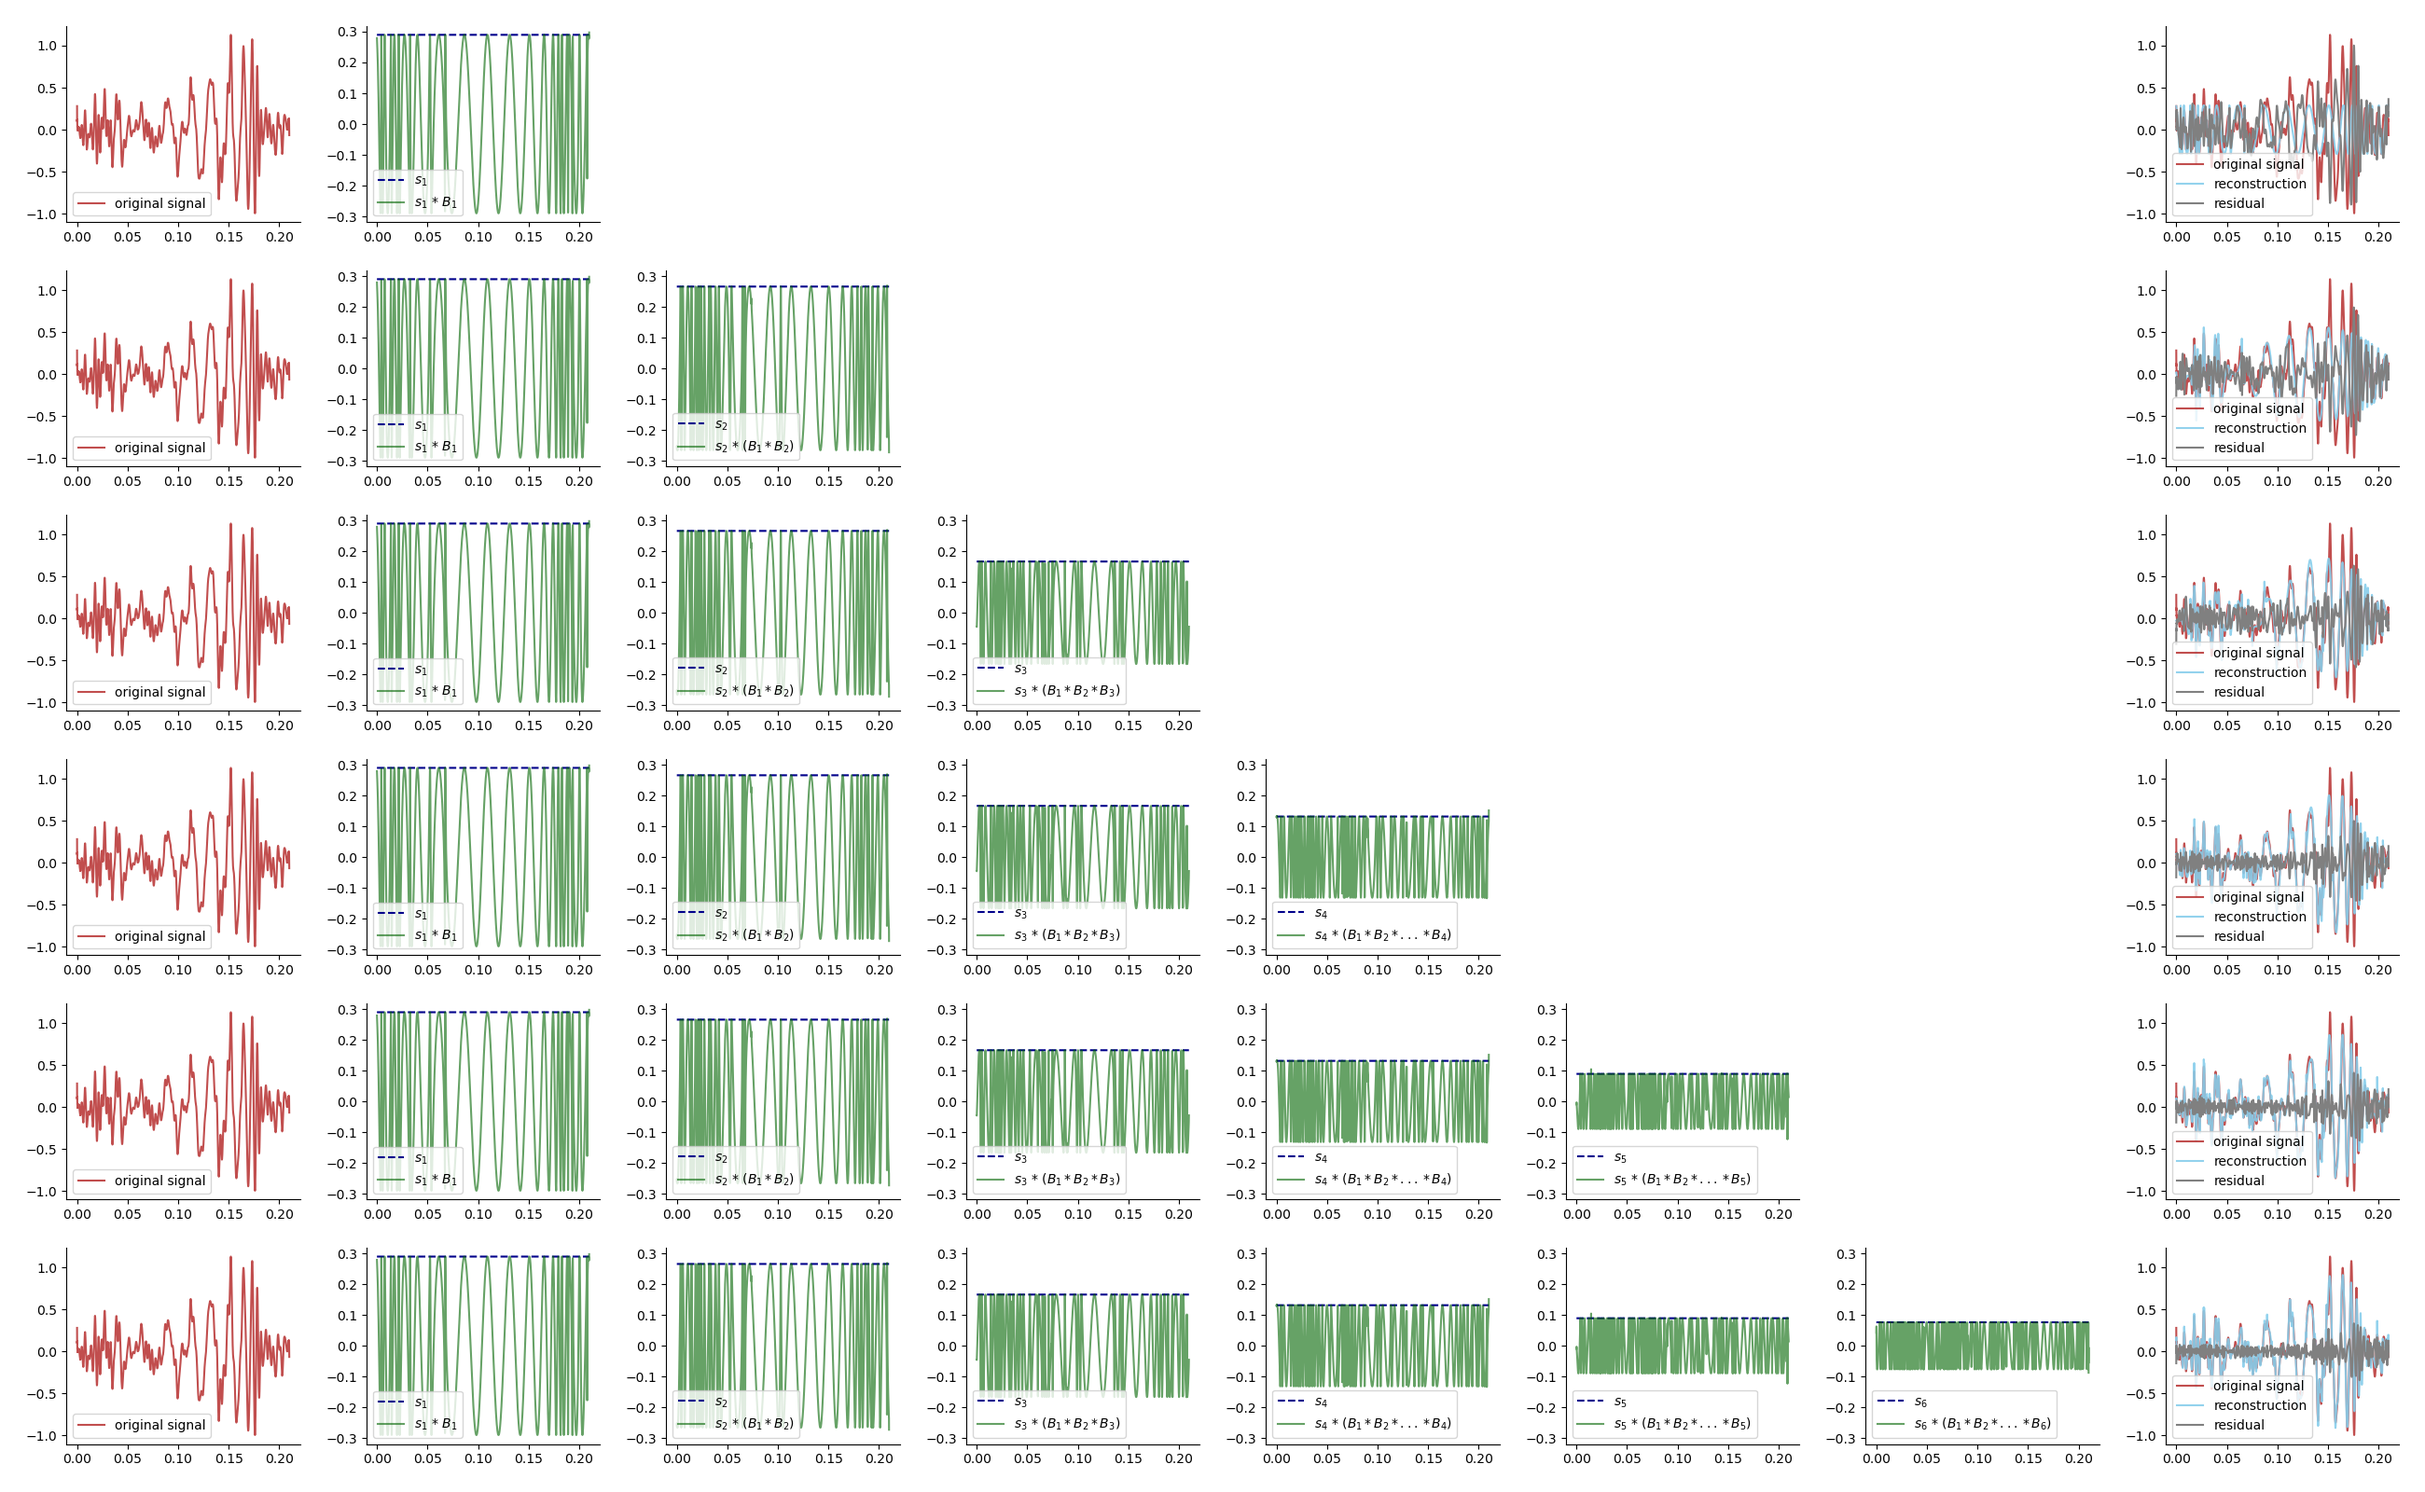
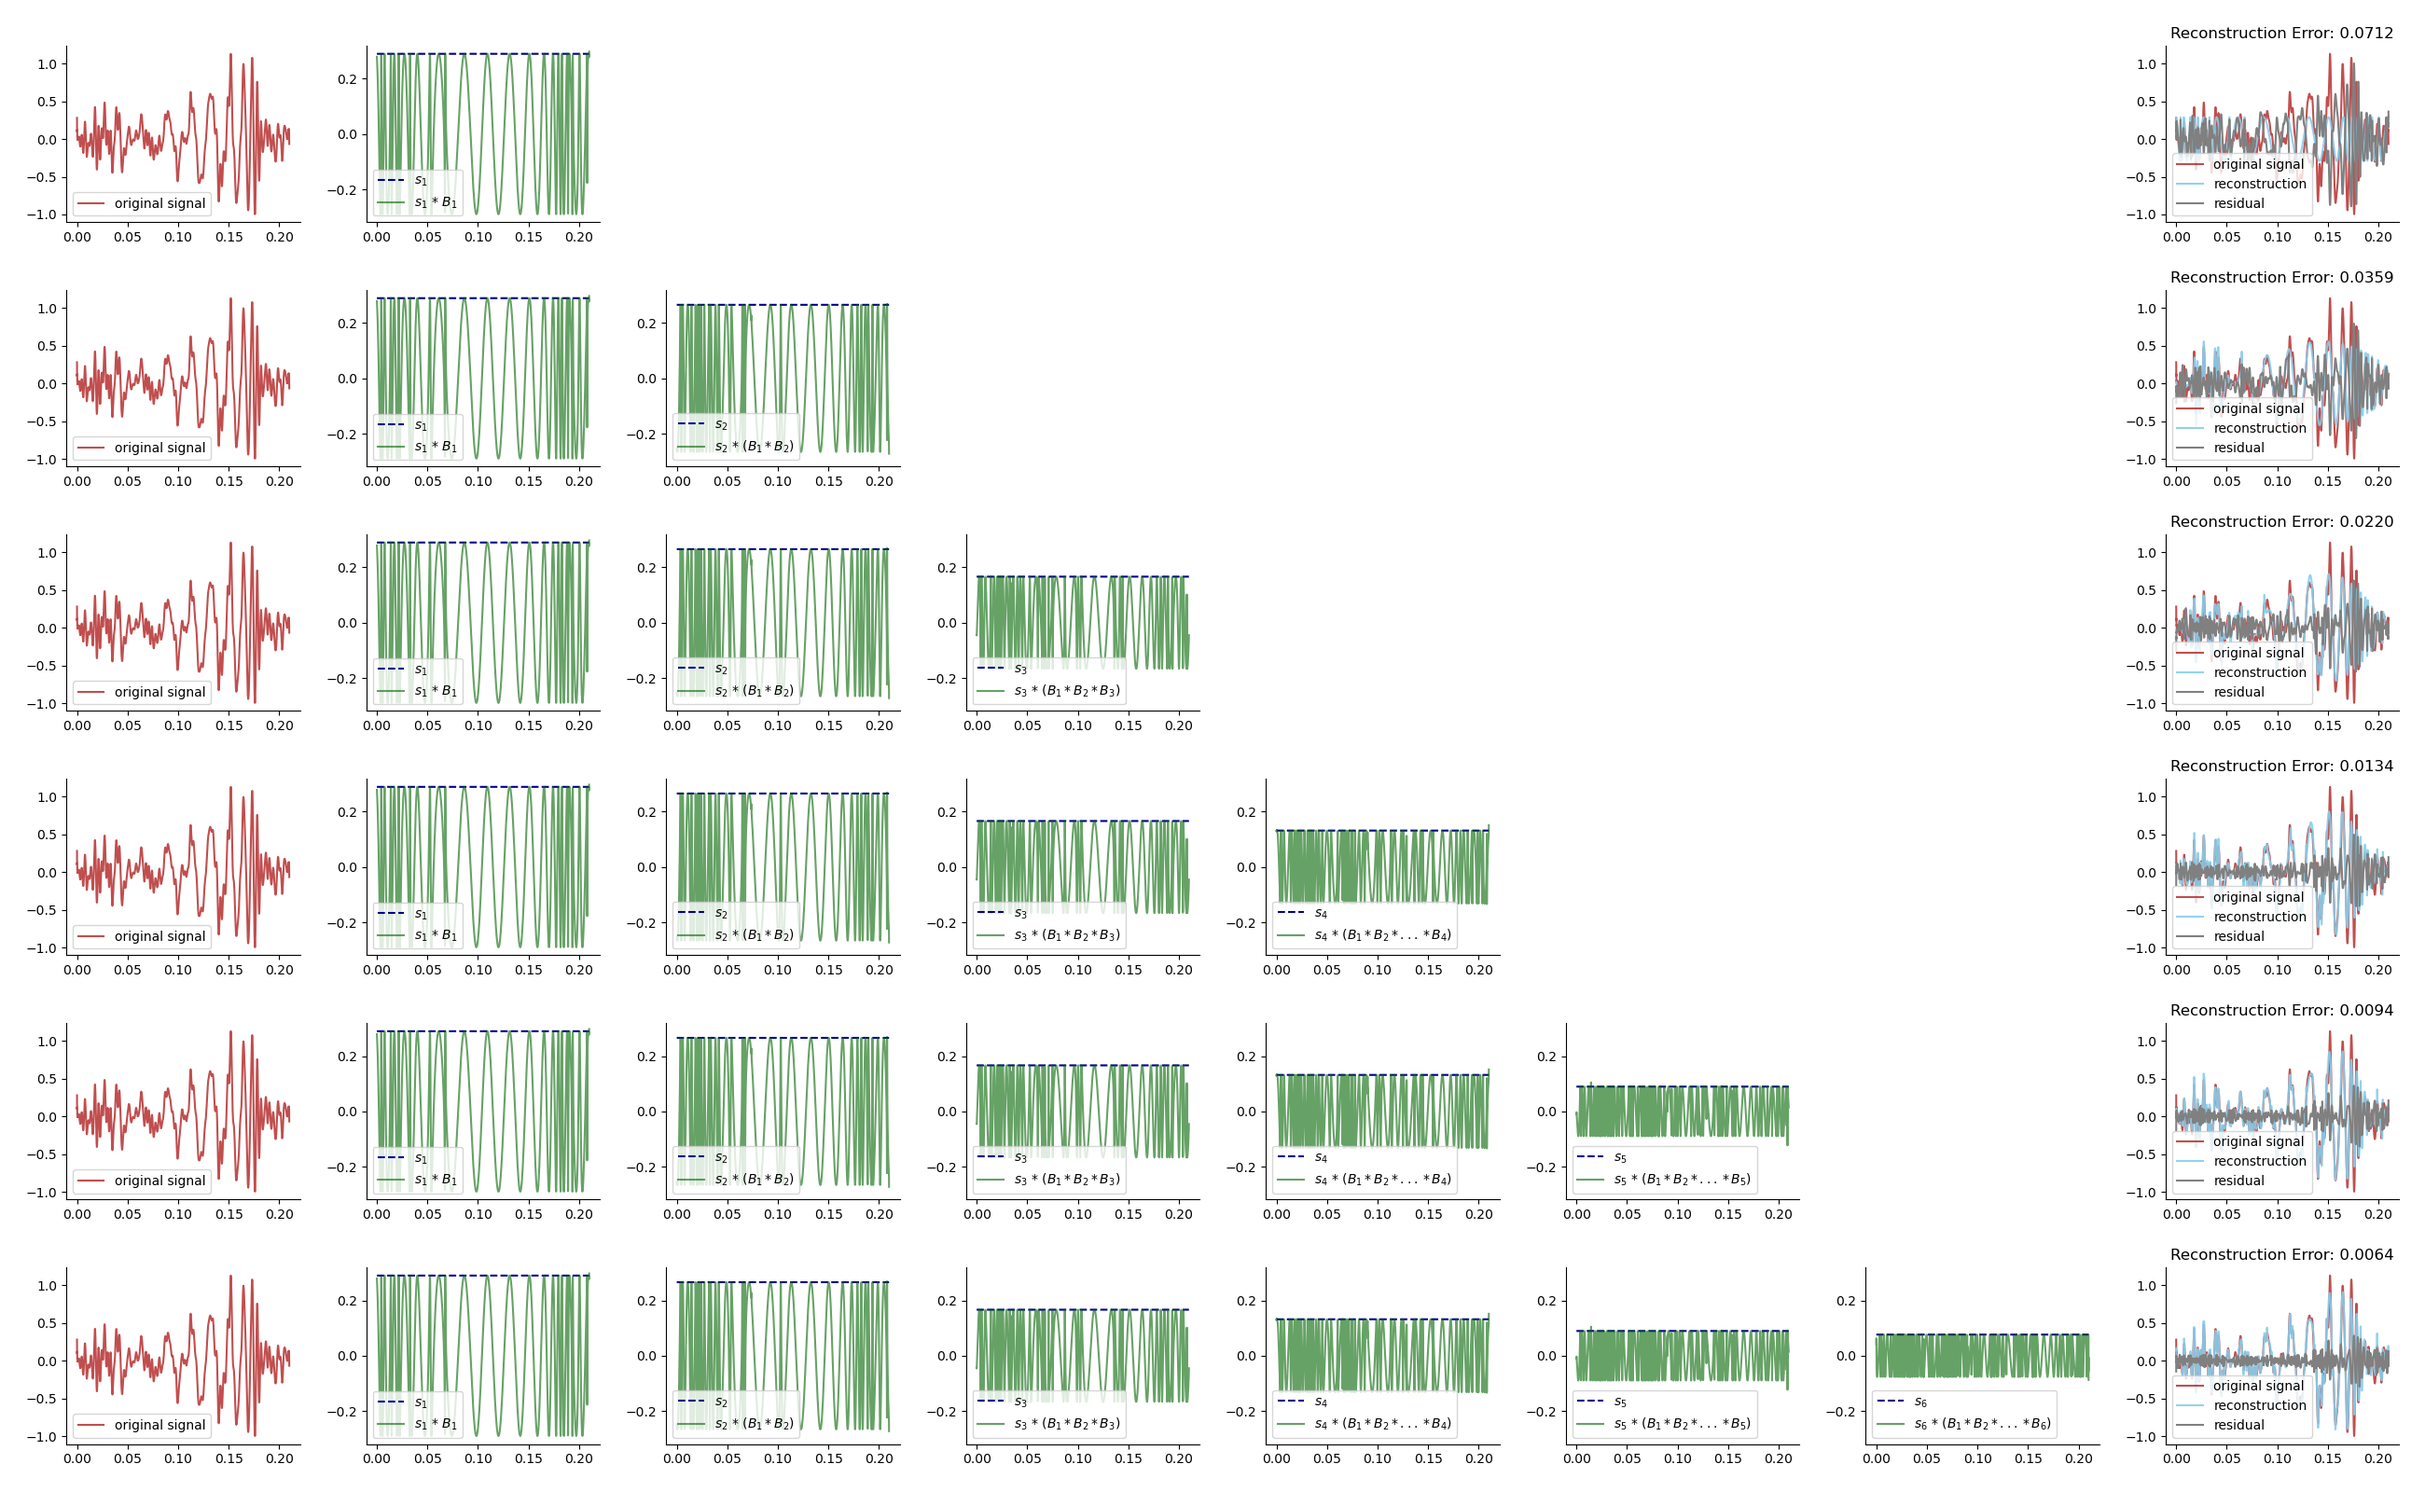
sanity check on fitting Blaschke params. Good

diff --git a/src/analytical/fitting_parameter.py b/src/analytical/fitting_parameter.py
@@ -1,0 +1,263 @@
+import torch
+import numpy as np
+import pandas as pd
+import matplotlib.pyplot as plt
+from einops import rearrange
+from tqdm import tqdm
+
+import os
+import sys
+import_dir = '/'.join(os.path.realpath(__file__).split('/')[:-1])
+sys.path.insert(0, import_dir)
+from analytical_decomposition import display_blaschke_product, complexify_signal
+
+
+def reshape_and_complexify(signal: np.ndarray) -> np.ndarray:
+    original_shape = signal.shape
+    if len(original_shape) == 1:
+        signal = rearrange(signal, '(c l) -> c l', c=1)
+    elif len(original_shape) == 2:
+        pass
+    elif len(original_shape) == 3:
+        signal = rearrange(signal, 'b c l -> (b c) l')
+    else:
+        raise ValueError(f'Currently only supporting 1D/2D/3D signals, but got shape {original_shape}.')
+
+    signal_complex = complexify_signal(signal)
+    return signal_complex
+
+
+class BlaschkeParams(torch.nn.Module):
+    '''
+    This is a torch module that stores all Blaschke parameters.
+    All Blaschke parameters are treated as learnable scalars.
+    '''
+    def __init__(self,
+                 num_roots: int = 1,
+                 seed: int = 1):
+        super().__init__()
+        torch.manual_seed(seed)
+
+        self.num_roots = num_roots
+
+        self.alphas = torch.nn.Parameter(torch.empty(self.num_roots))
+        self.log_betas = torch.nn.Parameter(torch.empty(self.num_roots))
+        self.logit_gammas = torch.nn.Parameter(torch.empty(self.num_roots))
+        self.scale_real = torch.nn.Parameter(torch.empty(1))
+        self.scale_imag = torch.nn.Parameter(torch.empty(1))
+
+        torch.nn.init.normal_(self.alphas, mean=0.0, std=1e-2)
+        torch.nn.init.normal_(self.log_betas, mean=0.0, std=1e-2)
+        torch.nn.init.normal_(self.logit_gammas, mean=0.0, std=1e-2)
+        torch.nn.init.normal_(self.scale_real, mean=0.0, std=1e-2)
+        torch.nn.init.normal_(self.scale_imag, mean=0.0, std=1e-2)
+
+    @property
+    def betas(self):
+        '''
+        betas have to be positive.
+        '''
+        return torch.exp(self.log_betas)
+
+    @property
+    def gammas(self):
+        '''
+        gammas have to be between 0 and 1.
+        '''
+        return torch.sigmoid(self.logit_gammas)
+
+    @property
+    def scale(self):
+        return self.scale_real + 1j * self.scale_imag
+
+    def activation(self, signal: torch.Tensor) -> torch.Tensor:
+        '''
+        Custom activation function used in the BlaschkeLayer1d.
+        '''
+        output = torch.arctan(signal) + torch.pi / 2
+        return output
+
+    def compute_blaschke_factor(self,
+                                signal_complex: torch.Tensor) -> torch.Tensor:
+
+        # NOTE: Assuming B = 1, C = 1.
+
+        signal_complex = signal_complex.unsqueeze(2)                           # [B, C, 1, L]
+        t = rearrange(torch.linspace(0, 1, signal_complex.shape[-1]),
+                      'l -> 1 1 1 l').to(signal_complex.device)                # [1, 1, 1, L]
+        alphas = rearrange(self.alphas, 'r -> 1 1 r 1')                        # [B, C, R, 1]
+        betas = rearrange(self.betas, 'r -> 1 1 r 1')                          # [B, C, R, 1]
+        gammas = rearrange(self.gammas, 'r -> 1 1 r 1')                        # [B, C, R, 1]
+
+        activated = self.activation((t - alphas) / betas)                      # [B, C, R, L]
+        phase = (gammas * activated).sum(dim=2)                                # sum over roots (R) → [B, C, L]
+
+        blaschke_factor = torch.exp(1j * phase)
+
+        return blaschke_factor
+
+    def forward(self,
+                signal_complex: torch.Tensor) -> torch.Tensor:
+        # [B, C, L]
+        assert len(signal_complex.shape) == 3
+
+        # Compute the Blaschke product $B(x)$. [B, C, L]
+        blaschke_factor = self.compute_blaschke_factor(signal_complex)
+        return blaschke_factor
+
+
+def plot_signal_approx(signal_complex: np.ndarray, scale: np.ndarray, blaschke_product: np.ndarray, blaschke_order: int = 6) -> None:
+    fig, ax = plt.subplots(blaschke_order, blaschke_order + 2, figsize = (26, 16))
+    if blaschke_order == 1:
+        ax = ax[np.newaxis, :]
+
+    time_arr = np.arange(signal_complex.shape[-1])
+    signal_complex = signal_complex.squeeze(0)
+    blaschke_product = blaschke_product.squeeze(1)
+
+    for total_order in range(blaschke_order):
+        ax[total_order, 0].plot(time_arr, signal_complex.real, label = 'original signal', color='firebrick', alpha=0.8)
+        ax[total_order, 0].legend(loc='lower left')
+        ax[total_order, 0].spines['top'].set_visible(False)
+        ax[total_order, 0].spines['right'].set_visible(False)
+
+    for total_order in range(1, blaschke_order + 1):
+        for curr_order in range(1, total_order + 1):
+            ax[total_order - 1, curr_order].hlines(scale[curr_order-1].real, xmin=time_arr.min(), xmax=time_arr.max(), label = f'$s_{curr_order}$', color='darkblue', linestyle='--')
+            ax[total_order - 1, curr_order].plot(time_arr, (blaschke_product[curr_order-1] * scale[curr_order-1]).real, label = f'$s_{curr_order}$ * ${display_blaschke_product(curr_order)}$', color='darkgreen', alpha=0.6)
+            ax[total_order - 1, curr_order].legend(loc='lower left')
+            ax[total_order - 1, curr_order].spines['top'].set_visible(False)
+            ax[total_order - 1, curr_order].spines['right'].set_visible(False)
+
+    final = 0
+    for curr_order in range(1, blaschke_order + 1):
+        final += (blaschke_product[curr_order-1] * scale[curr_order-1]).real
+        ax[curr_order - 1, blaschke_order + 1].plot(time_arr, signal_complex.real, label = 'original signal', color='firebrick', alpha=0.8)
+        ax[curr_order - 1, blaschke_order + 1].plot(time_arr, final, label = 'reconstruction', color='skyblue', alpha=0.9)
+        ax[curr_order - 1, blaschke_order + 1].plot(time_arr, final - signal_complex.real, label = 'residual', color='gray', alpha=1.0)
+        ax[curr_order - 1, blaschke_order + 1].set_title(f'Reconstruction Error: {np.power(np.abs(final - signal_complex.real), 2).mean():.4f}')
+        ax[curr_order - 1, blaschke_order + 1].legend(loc='lower left')
+        ax[curr_order - 1, blaschke_order + 1].spines['top'].set_visible(False)
+        ax[curr_order - 1, blaschke_order + 1].spines['right'].set_visible(False)
+
+    # Remove axes from unused subplots
+    for i in range(blaschke_order):
+        for j in range(blaschke_order + 2):
+            if (j > i + 1) and (j != blaschke_order + 1):
+                ax[i, j].axis('off')
+
+    fig.tight_layout(pad=2)
+    fig.savefig('demo_fitting_parameter.png')
+    return
+
+def run_sample(model_input: torch.Tensor, model: torch.nn.Module, blaschke_order: int, detach_by_iter:bool) -> torch.Tensor:
+    blaschke_factors = []
+    residual_signal, residual_sqnorm, gamma_deviation = model_input, None, None
+    mean_scale, active_roots_ratio = None, None
+    B_prod_arr = None
+
+    for iter_idx in range(blaschke_order):
+        blaschke_factors.append(model[iter_idx](residual_signal))
+
+        # Blaschke product is the cumulative product of Blaschke factors
+        # B_1 * B_2 * ... * B_n.
+        blaschke_product = blaschke_factors[-1]
+        for blaschke_factor in blaschke_factors[:-1]:
+            if detach_by_iter:
+                # Detach the gradient so that each iteration is penalized separately.
+                blaschke_product = blaschke_product * blaschke_factor.detach()
+            else:
+                blaschke_product = blaschke_product * blaschke_factor
+
+        # The Blaschke approximation is given by
+        # s_n * B_1 * B_2 * ... * B_n.
+        scale = model[iter_idx].scale
+        curr_signal_approx = scale * blaschke_product
+
+        # F_{n+1} = F_n - s_n * B_1 * ... * B_n.
+        if detach_by_iter:
+            # Detach the gradient so that each iteration is penalized separately.
+            residual_signal = residual_signal.detach() - curr_signal_approx
+        else:
+            residual_signal = residual_signal - curr_signal_approx
+
+        # This helps sanity checking the residual norms at each iteration.
+        curr_sqnorm = torch.abs(residual_signal).pow(2).mean().unsqueeze(0)
+        curr_deviation = torch.sigmoid(model[iter_idx].logit_gammas) * (1 - torch.sigmoid(model[iter_idx].logit_gammas))
+        if residual_sqnorm is None:
+            residual_sqnorm = curr_sqnorm
+            gamma_deviation = curr_deviation
+        else:
+            residual_sqnorm = torch.cat((residual_sqnorm, curr_sqnorm), dim=0)
+            gamma_deviation = torch.cat((gamma_deviation, curr_deviation), dim=0)
+
+        if B_prod_arr is None:
+            B_prod_arr = blaschke_product.detach().cpu()
+        else:
+            B_prod_arr = torch.cat((B_prod_arr, blaschke_product.detach().cpu()), dim=0)
+
+        # Track the mean scale per layer.
+        if mean_scale is None:
+            mean_scale = scale.mean().cpu().detach().unsqueeze(0)
+        else:
+            mean_scale = torch.cat((mean_scale, scale.mean().cpu().detach().unsqueeze(0)), dim=0)
+
+        # Track the ratio of active roots per layer.
+        active_roots = (model[iter_idx].logit_gammas > 0).sum().cpu().detach()
+        total_roots = model[iter_idx].logit_gammas.numel()
+        if active_roots_ratio is None:
+            active_roots_ratio = (active_roots / total_roots).unsqueeze(0)
+        else:
+            active_roots_ratio = torch.cat((active_roots_ratio, (active_roots / total_roots).unsqueeze(0)), dim=0)
+
+    return residual_sqnorm, gamma_deviation, B_prod_arr.numpy(), mean_scale.numpy(), active_roots_ratio.numpy()
+
+
+if __name__ == '__main__':
+    # Load the signal.
+    test_signal_file = '../../data/gravitational_wave_HanfordH1.txt'
+    signal_df = pd.read_csv(test_signal_file, sep=' ', header=None)
+    time_arr = np.array(signal_df[0]) - np.min(signal_df[0])
+    signal_arr = np.array(signal_df[1])
+
+    # Parameters for Blaschke decomposition.
+    blaschke_order = 6                       # Using 6 for best visualization.
+    num_roots = 32
+    num_epochs = 3000
+    learning_rate = 1e-2
+    detach_by_iter = False
+    coeff_deviation = 10
+
+    device = torch.device("cuda" if torch.cuda.is_available() else "cpu")
+
+    signal_complex = reshape_and_complexify(signal=signal_arr)
+
+    model = torch.nn.ModuleList()
+    for _ in range(blaschke_order):
+        model.append(BlaschkeParams(num_roots=num_roots))
+    model = model.to(device)
+
+    optimizer = torch.optim.AdamW(model.parameters(), lr=learning_rate, weight_decay=1e-4)
+    model_input = torch.from_numpy(rearrange(signal_complex, '(b c) l -> b c l', b=1)).to(device)
+
+    with tqdm(range(num_epochs)) as pbar:
+        for epoch_idx in pbar:
+
+            residual_sqnorm, gamma_deviation, blaschke_product, mean_scale, active_roots_ratio = \
+                run_sample(model_input=model_input, model=model, blaschke_order=blaschke_order, detach_by_iter=detach_by_iter)
+            loss_recon = residual_sqnorm.mean()
+            loss_deviation = gamma_deviation.mean()
+            loss = loss_recon + loss_deviation * coeff_deviation
+
+            optimizer.zero_grad()
+            loss.backward()
+            optimizer.step()
+
+            pbar.set_postfix(loss_recon=f'{loss_recon:.5f}',
+                             loss_deviation_scaled=f'{loss_deviation * coeff_deviation:.5f}',
+                             active_roots_ratio=f'{active_roots_ratio}')
+
+    plot_signal_approx(signal_complex=signal_complex,
+                       scale=[model[iter_idx].scale.cpu().detach().numpy() for iter_idx in range(blaschke_order)],
+                       blaschke_product=blaschke_product,
+                       blaschke_order=blaschke_order)

diff --git a/src/analytical/analytical_decomposition.py b/src/analytical/analytical_decomposition.py
@@ -253,6 +253,7 @@ if __name__ == '__main__':
         ax[curr_order - 1, blaschke_order + 1].plot(time_arr, signal_arr, label = 'original signal', color='firebrick', alpha=0.8)
         ax[curr_order - 1, blaschke_order + 1].plot(time_arr, final, label = 'reconstruction', color='skyblue', alpha=0.9)
         ax[curr_order - 1, blaschke_order + 1].plot(time_arr, final - signal_arr, label = 'residual', color='gray', alpha=1.0)
+        ax[curr_order - 1, blaschke_order + 1].set_title(f'Reconstruction Error: {np.power(np.abs(final - signal_arr), 2).mean():.4f}')
         ax[curr_order - 1, blaschke_order + 1].legend(loc='lower left')
         ax[curr_order - 1, blaschke_order + 1].spines['top'].set_visible(False)
         ax[curr_order - 1, blaschke_order + 1].spines['right'].set_visible(False)
